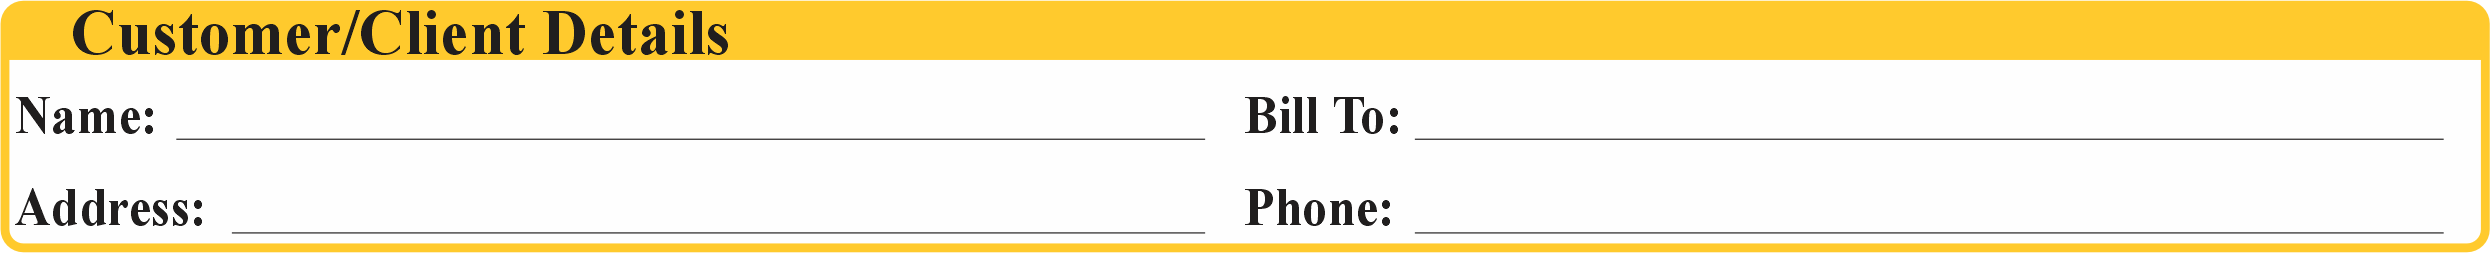
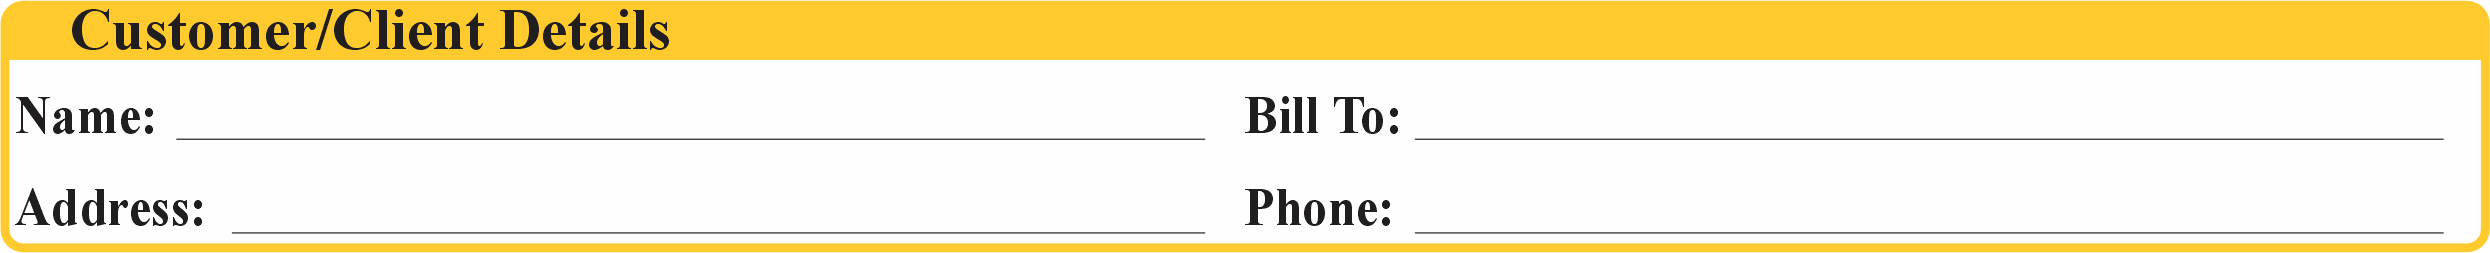
feat: add pdf generation service and asset images

Changed region(s): [[0.0309, 0.0277, 0.3092, 0.2213]]

diff --git a/lib/features/invoice/services/pdf_service.dart b/lib/features/invoice/services/pdf_service.dart
@@ -197,7 +197,11 @@ class PdfService {
                     _buildTotalsBox(invoice, contentWidth, 96),
                     pw.SizedBox(height: 6),
 
-                    // ── 7. Signature Section ─────────────────────────────────
+                    // ── 7. Invoice Validity Notice ───────────────────────────
+                    _buildValidityNotice(invoice, dateFmt, contentWidth),
+                    pw.SizedBox(height: 6),
+
+                    // ── 8. Signature Section ─────────────────────────────────
                     _buildSignatureSection(invoice, contentWidth),
                   ],
                 ),
@@ -1091,7 +1095,53 @@ class PdfService {
     );
   }
 
-  // ── 7. Signature Section ──────────────────────────────────────────────────
+  // ── 7. Invoice Validity Notice ────────────────────────────────────────────
+
+  static pw.Widget _buildValidityNotice(
+      Invoice invoice, DateFormat dateFmt, double width) {
+    final expiryDate = DateTime(
+      invoice.date.year,
+      invoice.date.month + 1,
+      invoice.date.day,
+    );
+    final expiryStr = dateFmt.format(expiryDate);
+    final boldStyle = pw.TextStyle(fontWeight: pw.FontWeight.bold);
+
+    return pw.Container(
+      width: width,
+      padding: const pw.EdgeInsets.symmetric(horizontal: 10, vertical: 6),
+      decoration: pw.BoxDecoration(
+        color: const PdfColor.fromInt(0xFFFFF8D8),
+        border: pw.Border.all(color: _yellow, width: 0.8),
+        borderRadius: const pw.BorderRadius.all(pw.Radius.circular(3)),
+      ),
+      child: pw.RichText(
+        text: pw.TextSpan(
+          style: const pw.TextStyle(fontSize: 7.8, color: _black),
+          children: [
+            pw.TextSpan(
+              text: 'INVOICE VALIDITY NOTICE: ',
+              style: boldStyle,
+            ),
+            const pw.TextSpan(
+              text:
+                  'This invoice is valid for 30 days from the date of issue and expires on ',
+            ),
+            pw.TextSpan(
+              text: expiryStr,
+              style: boldStyle,
+            ),
+            const pw.TextSpan(
+              text:
+                  '. Upon expiry, a new invoice will be issued with an updated terms.',
+            ),
+          ],
+        ),
+      ),
+    );
+  }
+
+  // ── 8. Signature Section ──────────────────────────────────────────────────
 
   static pw.Widget _buildSignatureSection(Invoice invoice, double width) {
     return pw.SizedBox(
